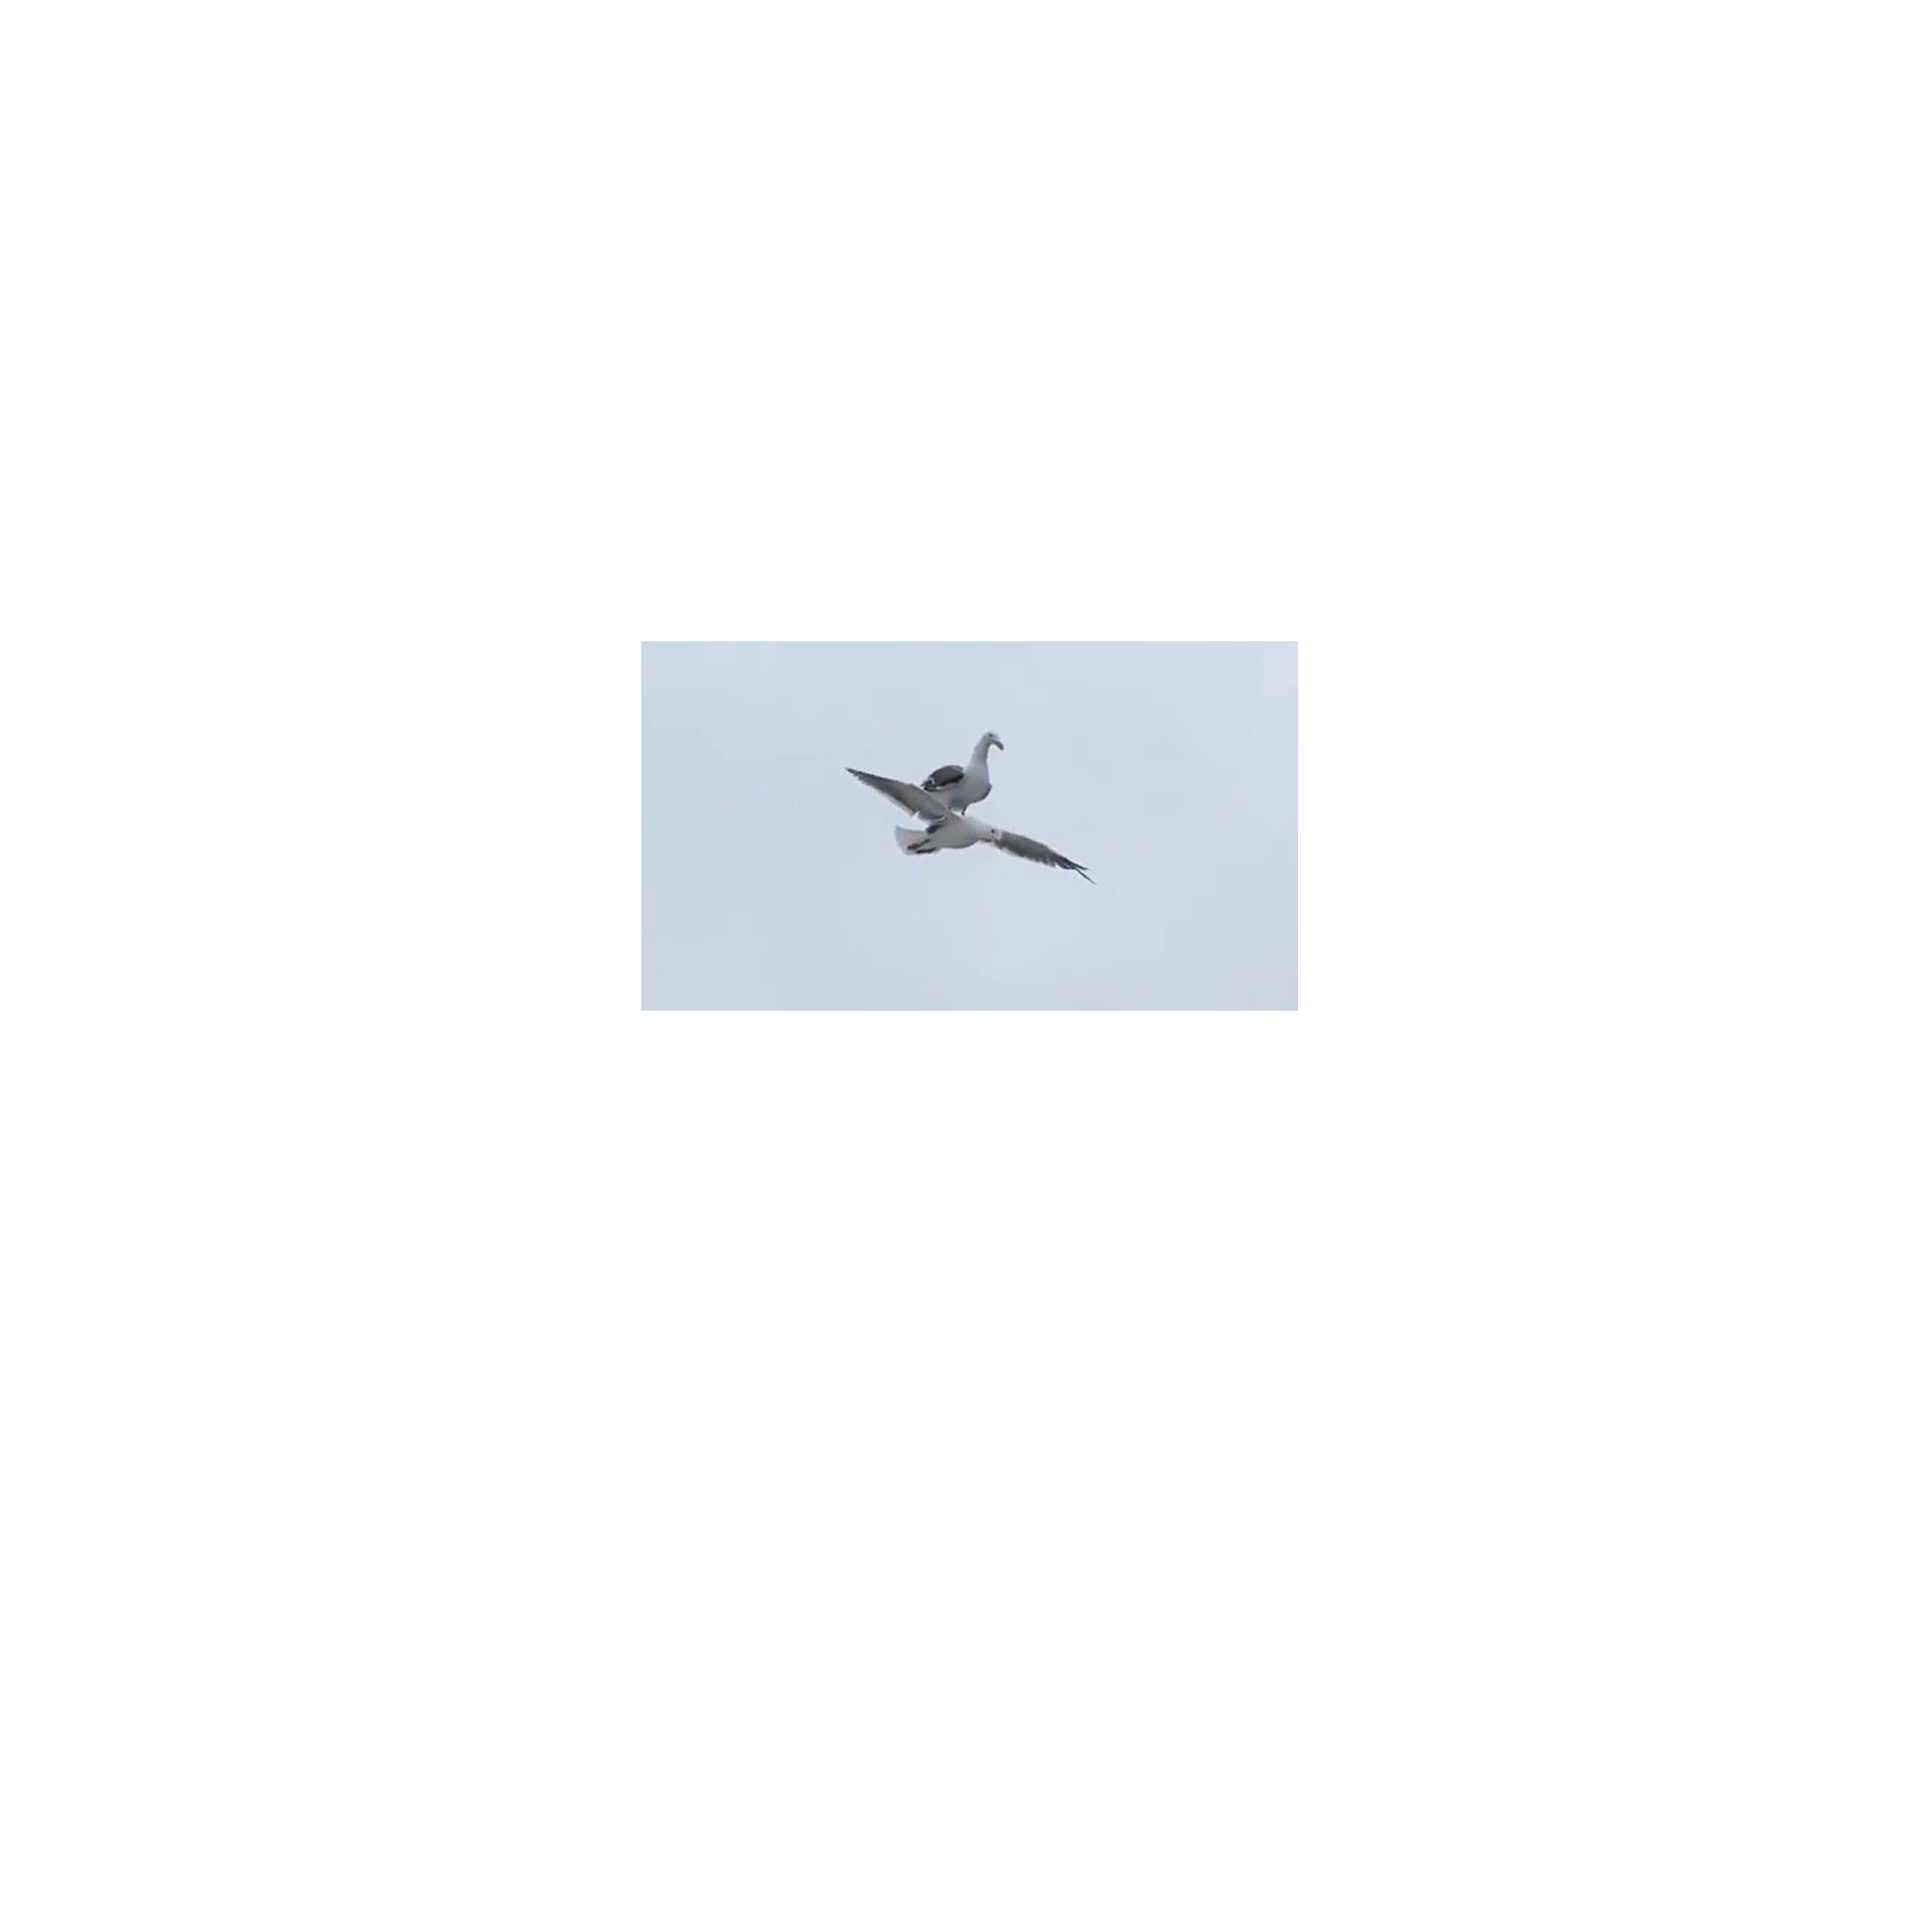
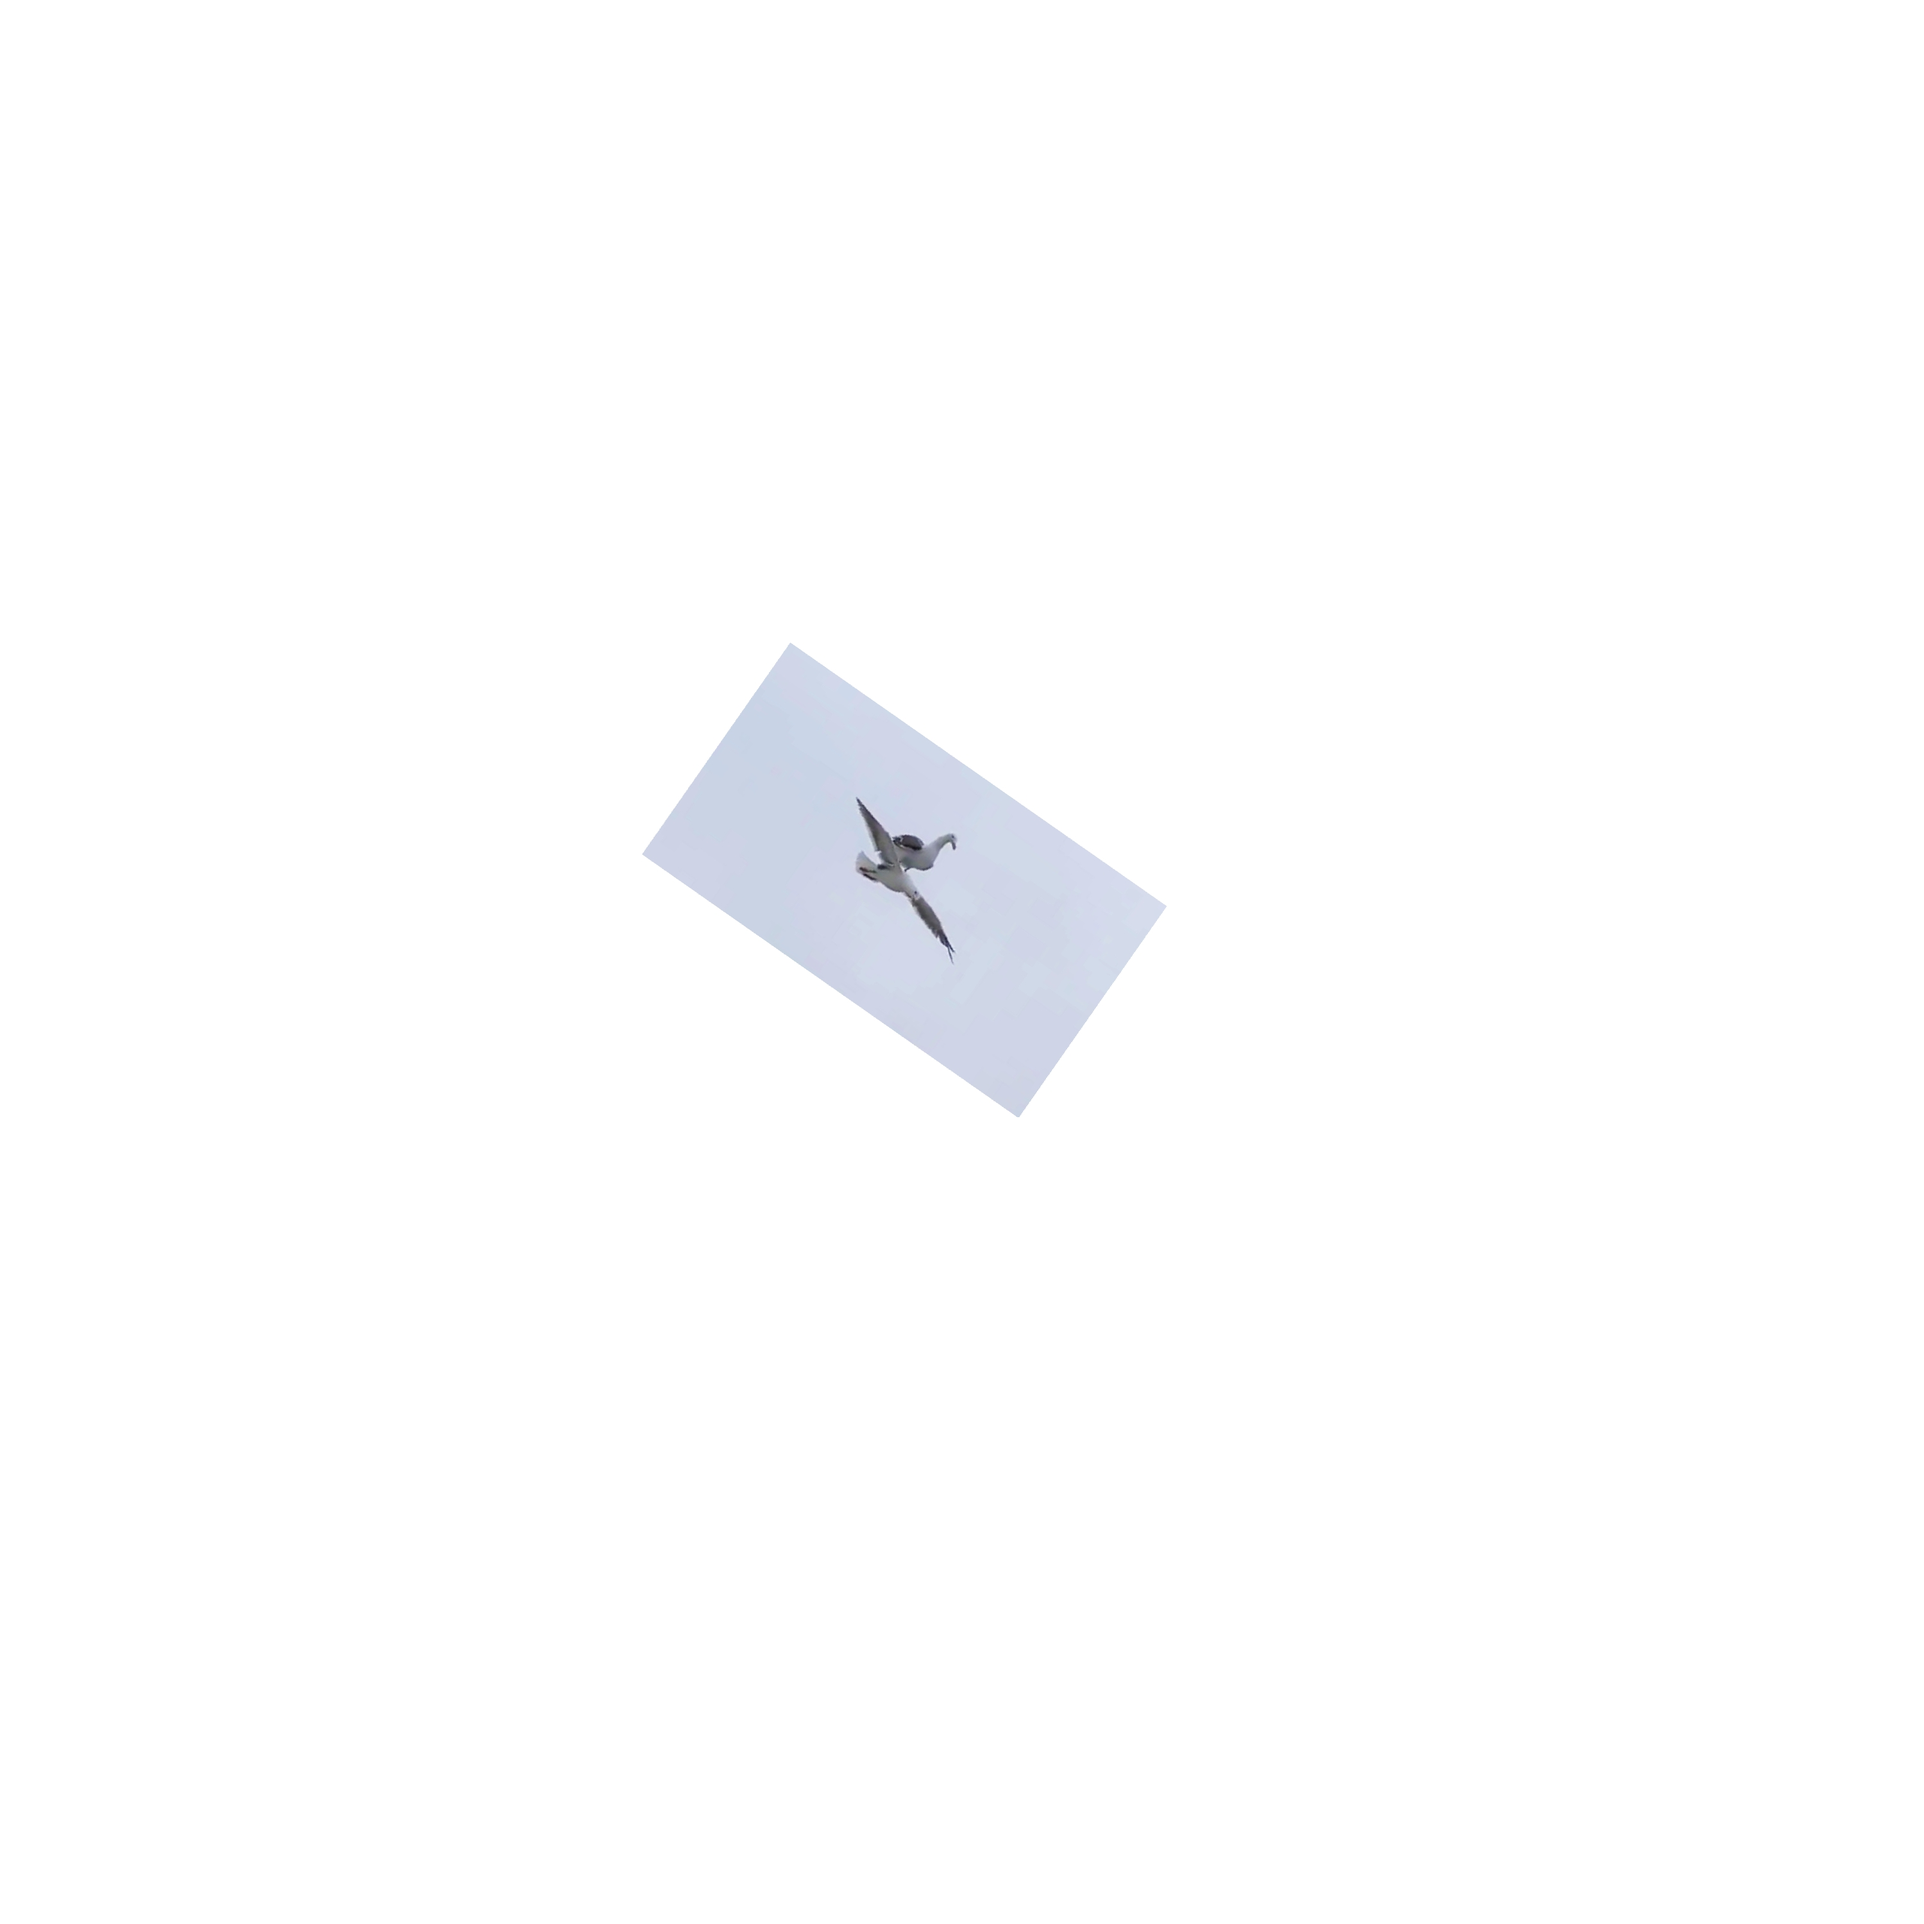
rotate and then rotate back

Changed region(s): [[0.31, 0.31, 0.682, 0.527], [0.465, 0.527, 0.558, 0.589]]

diff --git a/threeshear.py b/threeshear.py
@@ -12,7 +12,7 @@ img = Image.open(name)
 numpydata = np.asarray(img)
 numpydata = np.swapaxes(numpydata,0,1) # Convert row column to xy
 
-theta = 35 * math.pi / 180
+theta = -35 * math.pi / 180
 # Matrix transform x, y, 1, r, g, b
 
 
